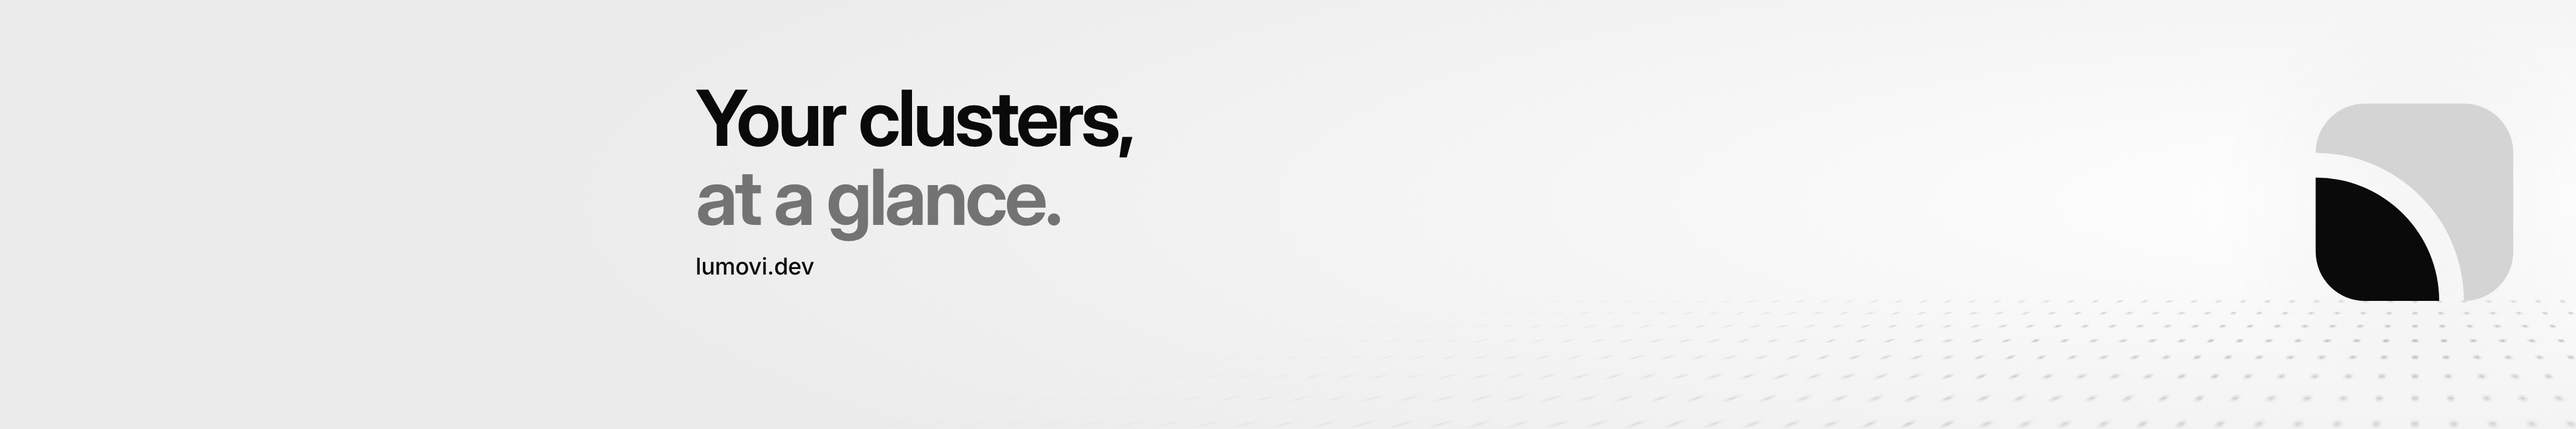
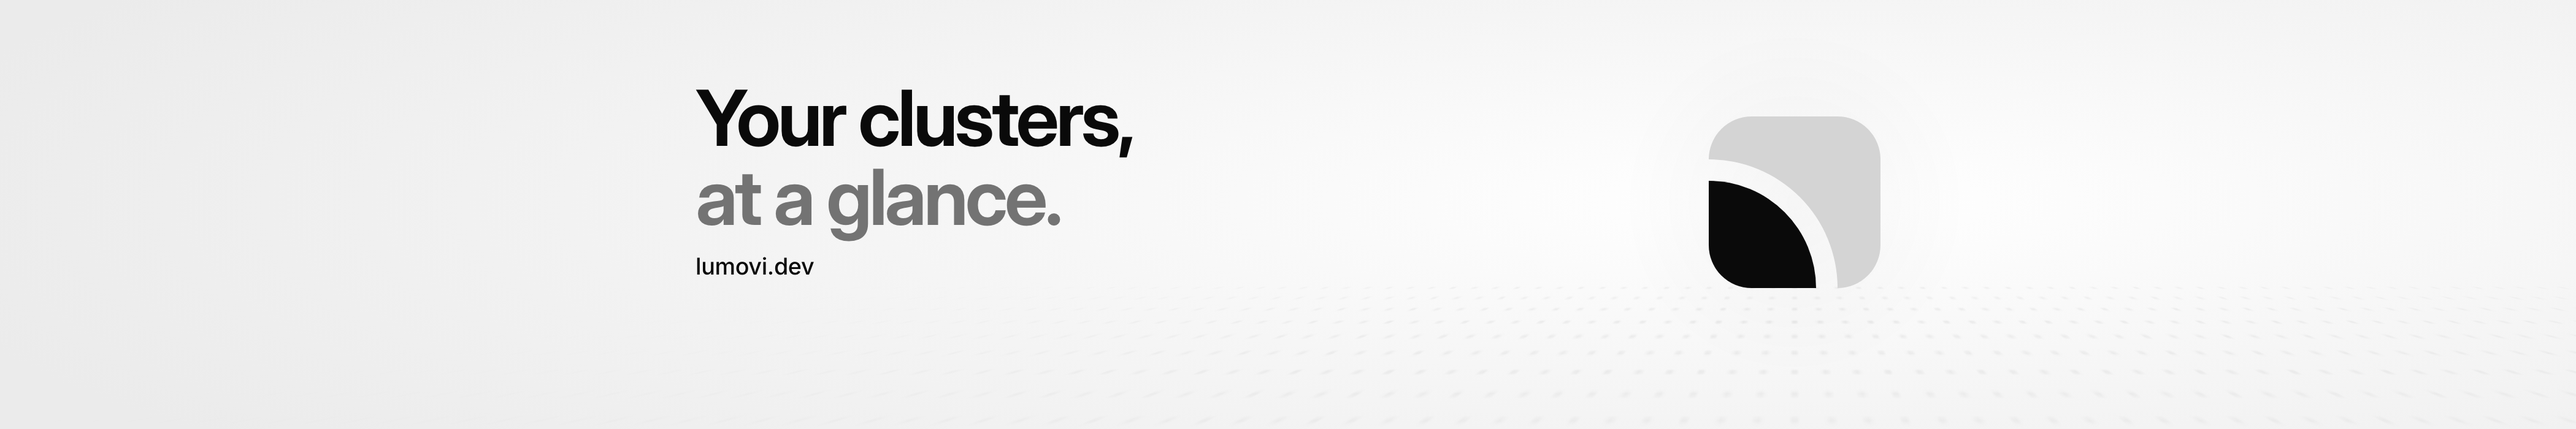
fix(social): LinkedIn's cover brings the mark in beside the words, clear of the edge phones crop

Changed region(s): [[0.8733, 0.24, 0.9981, 0.72], [0.655, 0.27, 0.7486, 0.69], [0.9981, 0.81, 1.0, 0.84]]

diff --git a/scripts/tasks/50-social.ts b/scripts/tasks/50-social.ts
@@ -248,6 +248,8 @@ export default {
             url: WEBSITE,
             titleSize: 36,
             header: true,
+            // (Phones show its middle: the mark comes in beside the words, not at the edge.)
+            beside: true,
           }),
           1200,
           200,
